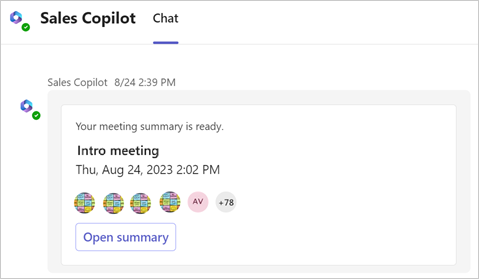
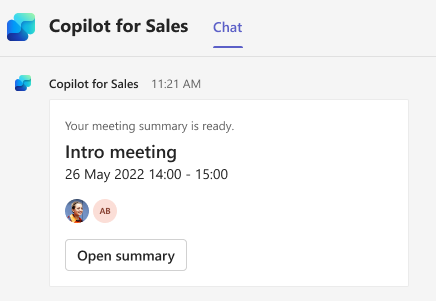
image update

diff --git a/articles/view-understand-meeting-summary.md b/articles/view-understand-meeting-summary.md
@@ -102,7 +102,7 @@ To view details of a topic, hover over the keyword to open its card. By default,
 
 The **Details** tab displays the names of the people who participated in the meeting.
 
-:::image type="content" source="media/overview-tab.png" alt-text="Screenshot showing the Overview tab in Copilot for Sales meeting summary.":::
+:::image type="content" source="media/details-tab.png" alt-text="Screenshot showing the Details tab in Copilot for Sales meeting summary.":::
 
 ### Call transcript and translation
 
